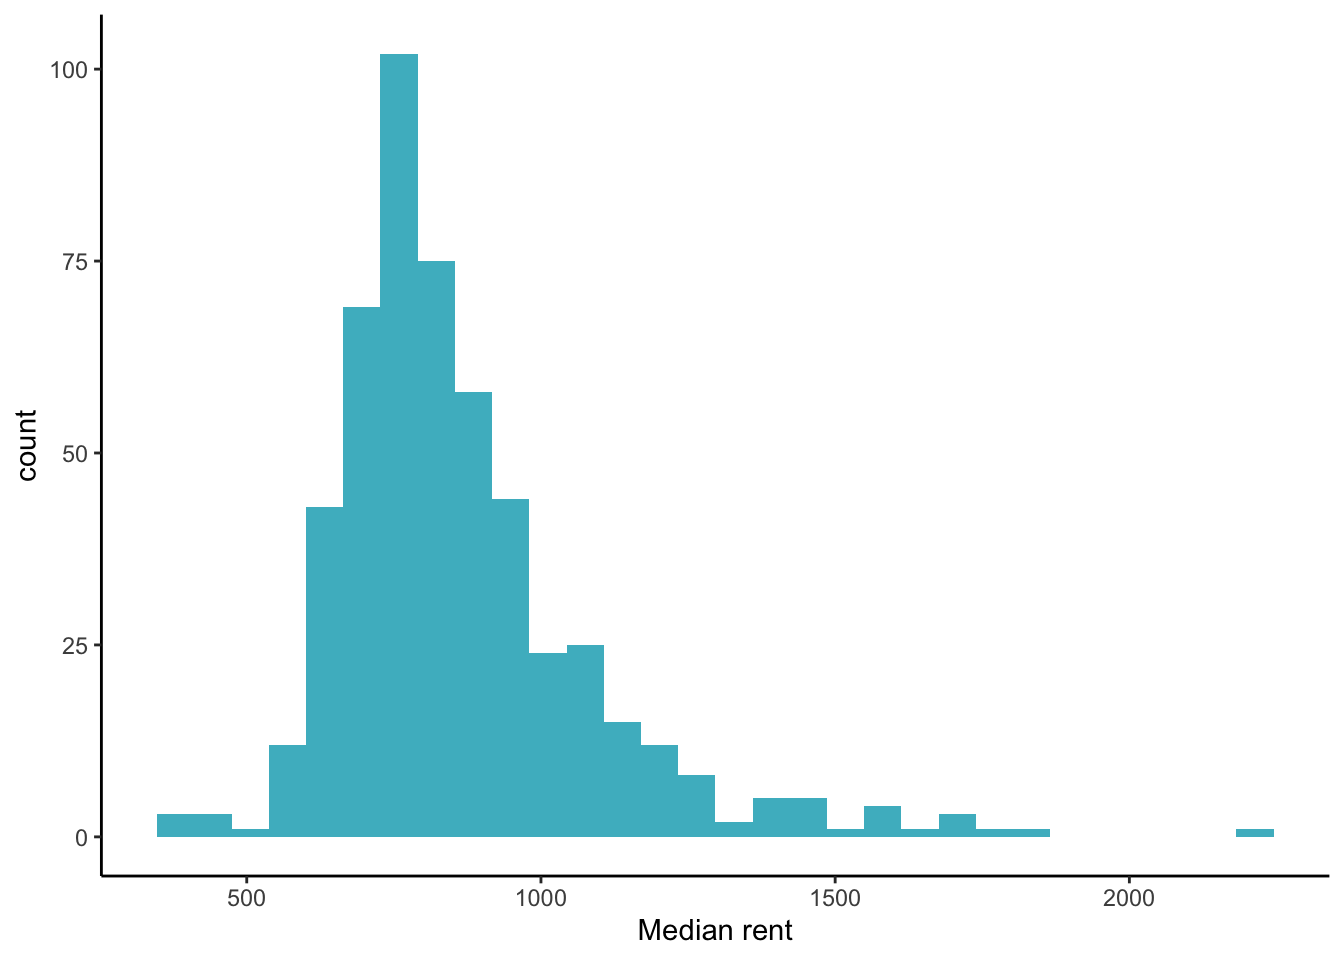
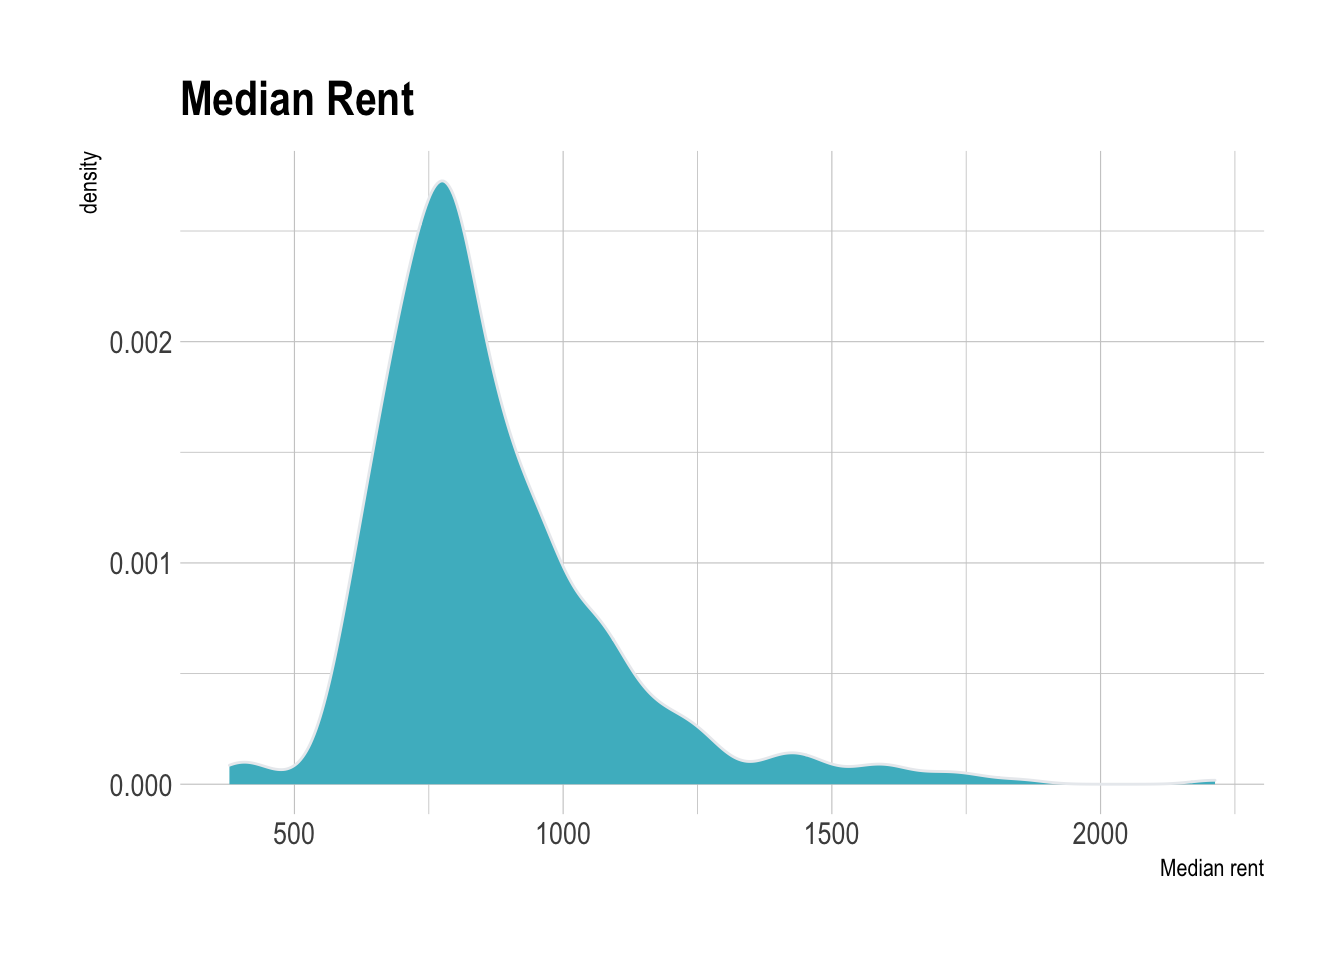
bike_data_visualization

diff --git a/content/post/2021-09-02-public-bike-sharing-data-visualization/index.en.html b/content/post/2021-09-02-public-bike-sharing-data-visualization/index.en.html
@@ -1,0 +1,47 @@
+---
+title: Public Bike Sharing Data Visualization
+author: R package build
+date: '2021-09-02'
+slug: []
+categories:
+  - Data World
+tags:
+  - Data Visualization
+  - R
+Description: ''
+Tags: []
+Categories: []
+DisableComments: no
+thumbnail: 'images/bike-sharing.jpg'
+---
+
+<script src="{{< blogdown/postref >}}index.en_files/header-attrs/header-attrs.js"></script>
+
+
+<p>Main focus of this artical is to explore the data visulization packages <em>ggplot2</em> and <em>ggridges</em></p>
+<p>Today we will use the dataset from <a href="https://www.kaggle.com/marklvl/bike-sharing-dataset"><strong>Kaggle: Mark Kaghazgarian</strong></a></p>
+<p>Here is the data:</p>
+<pre class="r"><code>bike_data &lt;- read.csv(&#39;~/DATASETS/archive/day.csv&#39;)
+str(bike_data)</code></pre>
+<pre><code>## &#39;data.frame&#39;:    731 obs. of  16 variables:
+##  $ instant   : int  1 2 3 4 5 6 7 8 9 10 ...
+##  $ dteday    : chr  &quot;2011-01-01&quot; &quot;2011-01-02&quot; &quot;2011-01-03&quot; &quot;2011-01-04&quot; ...
+##  $ season    : int  1 1 1 1 1 1 1 1 1 1 ...
+##  $ yr        : int  0 0 0 0 0 0 0 0 0 0 ...
+##  $ mnth      : int  1 1 1 1 1 1 1 1 1 1 ...
+##  $ holiday   : int  0 0 0 0 0 0 0 0 0 0 ...
+##  $ weekday   : int  6 0 1 2 3 4 5 6 0 1 ...
+##  $ workingday: int  0 0 1 1 1 1 1 0 0 1 ...
+##  $ weathersit: int  2 2 1 1 1 1 2 2 1 1 ...
+##  $ temp      : num  0.344 0.363 0.196 0.2 0.227 ...
+##  $ atemp     : num  0.364 0.354 0.189 0.212 0.229 ...
+##  $ hum       : num  0.806 0.696 0.437 0.59 0.437 ...
+##  $ windspeed : num  0.16 0.249 0.248 0.16 0.187 ...
+##  $ casual    : int  331 131 120 108 82 88 148 68 54 41 ...
+##  $ registered: int  654 670 1229 1454 1518 1518 1362 891 768 1280 ...
+##  $ cnt       : int  985 801 1349 1562 1600 1606 1510 959 822 1321 ...</code></pre>
+<p>This data set recorded the public bike rental count from 2011 to 2012 in Washington D.C., and all other weather related information.</p>
+<p>Before proceeding with some plots, lets tidy up the data a bit.</p>
+<pre class="r"><code>bike_data &lt;- bike_data[-1] ## first column is just index number
+bike_data$dteday &lt;- as.Date(bike_data$dteday, format = &#39;%Y-%m-%d&#39;)
+bike_data[,c(2:8)] &lt;- lapply(bike_data[,c(2:8)], factor) ##integer in these columns represent different factors/levels, detailed data background info https://www.kaggle.com/marklvl/bike-sharing-dataset</code></pre>

diff --git a/content/post/2021-09-01-数据预处理/index.en.html b/content/post/2021-09-01-数据预处理/index.en.html
@@ -59,11 +59,12 @@ You can also check the skewness statistic yourself:</p>
 ##  $ Estimate Total Population : num [1:518] 72697 169747 98623 306000 703505 ...</code></pre>
 <p>This data has 13 features, and for our interest of data skew, lets look at Median rent only.</p>
 <pre class="r"><code>library(ggplot2)
-ggplot(data, aes(x = `Median rent`)) + geom_histogram(fill = &quot;#4bb9c9&quot;) + theme_classic()</code></pre>
-<pre><code>## `stat_bin()` using `bins = 30`. Pick better value with `binwidth`.</code></pre>
+library(hrbrthemes)</code></pre>
+<pre><code>## NOTE: Either Arial Narrow or Roboto Condensed fonts are required to use these themes.</code></pre>
+<pre><code>##       Please use hrbrthemes::import_roboto_condensed() to install Roboto Condensed and</code></pre>
+<pre><code>##       if Arial Narrow is not on your system, please see https://bit.ly/arialnarrow</code></pre>
+<pre class="r"><code>ggplot(data, aes(x = `Median rent`)) + geom_density(fill = &quot;#4bb9c9&quot;, color=&quot;#e9ecef&quot;,alpha= 1) + theme_ipsum() + ggtitle(&quot;Median Rent&quot;)</code></pre>
 <p><img src="{{< blogdown/postref >}}index.en_files/figure-html/unnamed-chunk-4-1.png" width="672" /></p>
-<pre class="r"><code>check_skew(data$`Median rent`)</code></pre>
-<pre><code>## [1] 1.701213</code></pre>
 <pre class="r"><code>skew_ratio(data$`Median rent`)</code></pre>
 <pre><code>## [1] FALSE</code></pre>
 </div>

diff --git a/content/post/2021-09-02-public-bike-sharing-data-visualization/index.en_files/header-attrs/header-attrs.js b/content/post/2021-09-02-public-bike-sharing-data-visualization/index.en_files/header-attrs/header-attrs.js
@@ -1,0 +1,12 @@
+// Pandoc 2.9 adds attributes on both header and div. We remove the former (to
+// be compatible with the behavior of Pandoc < 2.8).
+document.addEventListener('DOMContentLoaded', function(e) {
+  var hs = document.querySelectorAll("div.section[class*='level'] > :first-child");
+  var i, h, a;
+  for (i = 0; i < hs.length; i++) {
+    h = hs[i];
+    if (!/^h[1-6]$/i.test(h.tagName)) continue;  // it should be a header h1-h6
+    a = h.attributes;
+    while (a.length > 0) h.removeAttribute(a[0].name);
+  }
+});
